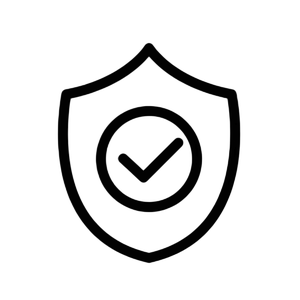
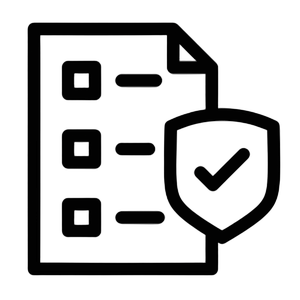
Sexta version

diff --git a/index.html b/index.html
@@ -5,7 +5,7 @@
     <meta name="viewport" content="width=device-width, initial-scale=1.0">
     <link rel="preconnect" href="https://fonts.googleapis.com">
     <link rel="preconnect" href="https://fonts.gstatic.com" crossorigin>
-    <link href="https://fonts.googleapis.com/css2?family=Cambo&display=swap" rel="stylesheet">
+    <link href="https://fonts.googleapis.com/css2?family=Lexend:wght@100..900&display=swap" rel="stylesheet">
     <link rel="stylesheet" href="./css/style.css">
     <title>Estética Automotriz Salto</title>
 </head>
@@ -18,8 +18,8 @@
                 <ul>
                     <li><a class="link_nav" href="#link_top">Inicio</a></li>
                     <li><a class="link_nav" href="#segunda_seccion">Servicios</a></li>
-                    <li><a class="link_nav" href="#tercera_seccion_div">Pagar</a></li>
-                    <li><a class="link_nav" href="#cuarta_seccion">Contactanos</a></li>
+                    <li><a class="link_nav" href="#seccion_paquetes">Paquetes</a></li>
+                    <li><a class="link_nav" href="#cuarta_seccion_div_redes">Contáctanos</a></li>
                     <li><a class="link_nav" href="#cuarta_seccion_div_ubicacion">Local</a></li>
                 </ul>
             </nav>
@@ -32,9 +32,10 @@
     <!-- PRIMERA SECCION -->
         <section id="primera_seccion">
             <div>
-                <h1 id="titulo_h1">Hacemos que cada vehículo <br>vuelva a destacar, <br>cuidando cada detalle <br>de principio a fin.</h1>
+                <h1 id="titulo_h1">HACEMOS QUE CADA VEHÍCULO <br>VUELVA A DESTACAR </h1>
                 <h1 id="titulo_mobile">Devolvemos a tu vehículo <br>el brillo que merece.</h1>
-                <h2 id="titulo_h2">Cuidado, limpieza y detallado <br>para que tu vehículo <br>luzca como nuevo.</h2> 
+                <h2 id="titulo_h2">Pasión por los detalles, excelencia en cada acabado. <br>Transformamos el cuidado de tu vehículo <br>en una experiencia premium. </h2> 
+                <a href="https://wa.me/59892382294">SOLICITA TU CITA AHORA</a>
             </div>
                 
         </section>
@@ -45,19 +46,19 @@
                 
                 <div id="que_ofrecemos_div">
                     <div>
-                    <p>Productos premium</p>
+                    <p>Productos <br>premium</p>
                     <img class="imagen_ofrecemos" src="./assets/certificados/producto calidad.png" alt="Productos de calidad">
                     </div>
                     <div>
-                    <p>Turnos sin espera</p>
+                    <p>Agendamiento <br>rápido</p>
                     <img class="imagen_ofrecemos" src="./assets/certificados/reloj.png" alt="Reloj turnos sin espera">
                     </div>
                     <div>
-                    <p>8 años de experiencia</p>
+                    <p>8 años <br>de experiencia</p>
                     <img class="imagen_ofrecemos" src="./assets/certificados/años experiencia.png" alt="Años de experiencia">
                     </div>
                     <div>
-                    <p>Garantía de satisfacción</p>
+                    <p>Garantía de <br>satisfacción</p>
                     <img class="imagen_ofrecemos" src="./assets/certificados/garantia.png" alt="Garantía ">
                     </div>
                 </div>
@@ -208,36 +209,57 @@
 
             <div id="seccion_paquetes">
                 <h2>Consulta por nuestros paquetes</h2>
-                <p>Elije entre estas 3 opciones, o arma un paquete que se adapte a tus necesidades.</p>
+                <p>Elegí entre estas 3 opciones, o arma un paquete que se adapte a tus necesidades.</p>
                 <div id="paquetes_div">
                     <div class="paquetes_lavado">
+                        <div class="titulo_paquete">
                         <h3>Básico</h3>
+                        </div>
+                        <div class="datos_paquete">
                         <ul>
                             <li>Lavado exterior</li>
                             <li>Secado a mano</li>
                             <li>Limpieza de llantas</li>
                         </ul>
+                        </div>
+                        <div class="boton_paquete">
+                        <a href="https://wa.me/59892382294?text=Hola%2C%20quisiera%20presupuesto%20por%20el%20paquete%20básico">Agendar</a>
+                        </div>
                     </div>
                         
                     <div class="paquetes_lavado">
-                        <h3>Completo</h3>
-                        <ul>
-                            <li>Básico +</li>
-                            <li>Limpieza de alfombras</li>
-                            <li>Limpieza de butacas</li>
-                            <li>Limpieza plasticos interior</li>
-                        </ul>
+                        <div class="titulo_paquete">
+                            <h3>Completo</h3>
+                        </div>
+                        <div class="datos_paquete">
+                            <ul>
+                                <li>Básico +</li>
+                                <li>Limpieza de alfombras</li>
+                                <li>Limpieza de butacas</li>
+                                <li>Limpieza plasticos interior</li>
+                            </ul>
+                        </div>
+                        <div class="boton_paquete">
+                             <a href="https://wa.me/59892382294?text=Hola%2C%20quisiera%20presupuesto%20por%20el%20paquete%20completo">Agendar</a>
+                        </div>
                     </div>
 
                     <div class="paquetes_lavado">
-                        <h3>Premium</h3>
-                        <ul>
-                            <li>Completo +</li>
-                            <li>Lavado de techo</li>
-                            <li>Descontaminado con ozono</li>
-                            <li>Sellado cristales</li>
-                            <li>Detallado de motor</li>
-                        </ul>
+                        <div class="titulo_paquete">
+                            <h3>Premium</h3>
+                        </div>
+                        <div class="datos_paquete">
+                            <ul>
+                                <li>Completo +</li>
+                                <li>Lavado de techo</li>
+                                <li>Descontaminado con ozono</li>
+                                <li>Sellado cristales</li>
+                                <li>Detallado de motor</li>
+                            </ul>
+                        </div>
+                        <div class="boton_paquete">
+                            <a href="https://wa.me/59892382294?text=Hola%2C%20quisiera%20presupuesto%20por%20el%20paquete%20premium">Agendar</a>
+                        </div>
                     </div>
 
                 </div>

diff --git a/css/style.css b/css/style.css
@@ -6,7 +6,7 @@ html {
 
 body {
     margin: 0px;
-    font-family: "Cambo", serif;
+    font-family: "Lexend", sans-serif;
     
 }
 
@@ -54,14 +54,13 @@ header {
 
 .link_nav {
     text-decoration: none;
-    color: rgb(255, 255, 100);
-    /* font-family: 'Segoe UI', Tahoma, Geneva, Verdana, sans-serif; */
+    color: #FFB800;
     transition: color 0.5s;
 }
 
 .link_nav:hover {
     text-decoration: underline;
-    color: rgb(201, 201, 20);
+    color: #FFB800;
 }
 
 
@@ -75,39 +74,48 @@ header {
     display: flex;
     justify-content: space-between;
     align-items: center;
-    background: linear-gradient(135deg, rgba(255, 255, 140, 0.85) 48%, transparent 45%), url(../assets/Honda-header.webp) center / cover no-repeat;
+    background: linear-gradient(135deg, rgba(255, 174, 0, 0.85) 48%, transparent 45%), url(../assets/Honda-header.webp) center / cover no-repeat;
     width: 100%;
-    height: 700px;
+    height: 500px;
     padding-bottom: 50px;
-    /* mask-image: linear-gradient(to bottom, black 50%, transparent); */
-    
     
 }
 
 #primera_seccion div {
     width: 45%;
-    padding-bottom: 11rem;
+    padding-bottom: 5rem;
     
 }
+
 #titulo_mobile {
     display: none;
 }
+
 h1 {
-    font-size: 4rem;
+    font-size: 2.8rem;
     padding-right: 0px;
     line-height: 1.1;
     color: black;
     margin-left: 70px;
     white-space: nowrap;
     overflow: visible;
-    text-shadow: 3px 3px 5px rgb(209, 209, 209);
     
 }
 
 #titulo_h2 {
-    font-size: 1.8rem;
-    margin: 20px 70px;
+    font-size: 1.5rem;
+    margin: 20px 70px 35px 70px;
     font-weight: 400;
+}
+
+#primera_seccion a  {
+    text-decoration: none;
+    color: rgba(255, 174, 0, 0.85);
+    background-color: black;
+    font-size: 1.5rem;
+    border-radius: 30px;
+    padding: 10px;
+    margin: 20px 70px;
 }
 
 /* BIENVENIDA */
@@ -152,10 +160,11 @@ h1 {
     justify-content: center;
     align-items: center;
     gap: 0px 80px;
-    background-color:  rgba(255, 255, 140, 0.85) ;
+    background-color:  rgba(255, 174, 0, 0.85) ;
     font-weight: 500;
     height: 80px;
     width: 100%;
+    border-bottom: rgb(255, 211, 99) solid 3px;
 }
 
 #que_ofrecemos_div div {
@@ -165,9 +174,13 @@ h1 {
     gap: 0px 10px;
 }
 
+#que_ofrecemos_div div p{
+    font-size: 1.3rem;
+}
+
 .imagen_ofrecemos {
-    width: 30px;
-    height: 30px;
+    width: 60px;
+    height: 60px;
 }
 
 /*SEGUNDA SECCION / SERVICIOS*/
@@ -189,7 +202,7 @@ h1 {
 
 
 #segunda_seccion {
-    background: linear-gradient(312deg,rgba(255, 255, 140, 0.85) 63%, rgba(255, 255, 255, 0) 63%, rgba(255, 255, 255, 0) 82%);
+    background: linear-gradient(312deg,rgba(255, 174, 0, 0.85) 63%, rgba(255, 255, 255, 0) 63%, rgba(255, 255, 255, 0) 82%);
     display: flex;
     flex-direction: column;
     justify-content: center;
@@ -283,34 +296,69 @@ h1 {
 #paquetes_div {
     display: flex;
     justify-content: center;
-    width: 50%;
+    width: 90%;
     margin-top: 3rem;
-    height: 260px;
-    gap: 0px 30px;
+    height: 320px;
+    gap: 0px 10px;
     
 }
 
 .paquetes_lavado {
     border: 2px white solid;
-    width: 20%;
+    width: 200px;
     border-radius: 15px;
     background-color: white;
     padding: 15px;
+    display: flex;
+    flex-direction: column;
+    justify-content: space-around;
+    
+}
+.titulo_paquete {
+    height: 15%;
+    display: flex;
+    align-items: flex-start;
 }
 
-.paquetes_lavado h3 {
+.datos_paquete {
+    height: 70%;
+    
+}
+
+.boton_paquete {
+    height: 15%;
+    display: flex;
+    align-items: flex-end;
+    justify-content: center;
+}
+
+
+.titulo_paquete h3 {
     font-size: 1.6rem;
     line-height: 1;
-    margin-top: 10px;
+    margin: 0px;
 }
 
-#paquetes_div ul{
+.datos_paquete ul{
     font-size: 0.9rem;
     color: rgb(78, 78, 78);
     margin: 0px;
     line-height: 2;
     list-style: none;
     padding: 0px;
+}
+
+.boton_paquete a {
+    text-decoration: none;
+    padding: 5px;
+    font-size: 1.1rem;
+    color: white;
+    background-color: blueviolet;
+    border-radius: 30px;
+    text-align: center;
+    width: 45%;
+    position: relative;
+    bottom: auto;
 }
 
 
@@ -350,8 +398,8 @@ h1 {
 .pasos_div h3 {
     font-size: 2.2rem;
     background-color: blueviolet;
-    width: 60px;
-    height: 60px;
+    width: 70px;
+    height: 70px;
     border-radius: 50%;
     display: flex;
     align-items: center;
@@ -360,7 +408,7 @@ h1 {
 }
 
 .pasos_div h4 {
-    font-size: 1.5rem;
+    font-size: 1.4rem;
 }
 
 .pasos_div p {
@@ -448,8 +496,8 @@ h1 {
 }
 
 #tercera_seccion_div p {
-    font-size: 1.2rem;
-    font-weight: 500;
+    font-size: 1.1rem;
+    
 }
 
 #imagenes_metodos_pago {
@@ -496,7 +544,7 @@ h1 {
     justify-content: space-around;
     margin: 100px 0px 0px 0px;
     padding: 150px 230px;
-    background-color: rgba(255, 255, 140, 0.85);
+    background-color: rgba(255, 174, 0, 0.85);
     mask-image: linear-gradient(to top, black 80%, transparent);
 }
 
